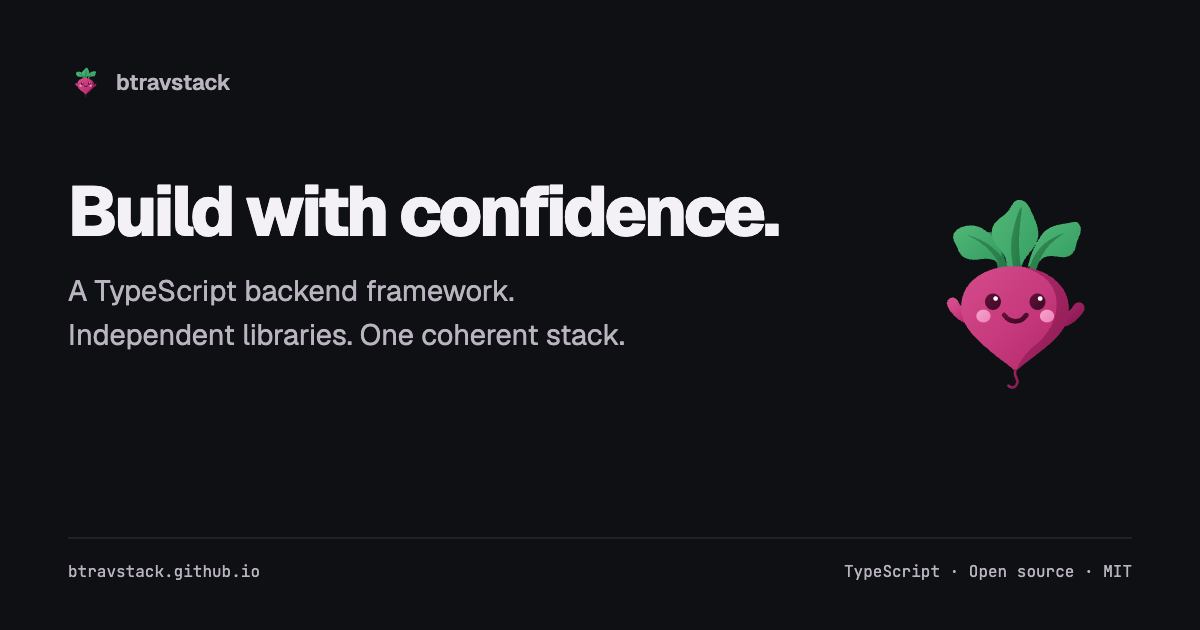
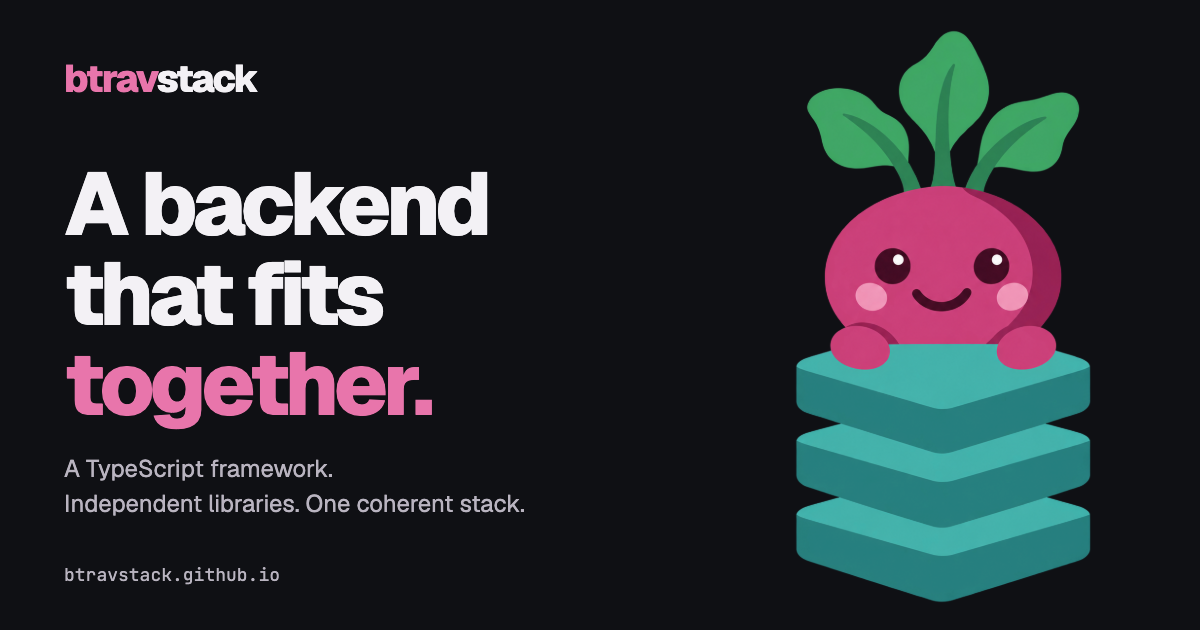
design: give the website social card a stronger brand composition

diff --git a/branding/social-card.html b/branding/social-card.html
@@ -5,6 +5,10 @@
 <title>btravstack brand card</title>
 <link rel="stylesheet" href="../packages/theme/src/fonts.css">
 <style>
+/* Hallmark · component: social card · theme: Beetroot Stack
+ * Static artwork; interactive states do not apply.
+ * Pre-emit critique: P5 H5 E4 S5 R5 V4
+ */
 :root { --paper:#0f1014; --ink:#f3f1f5; --muted:#b9b4c0; --rule:#323039; --accent:#e875ab; --display:'Geist',sans-serif; --mono:'JetBrains Mono',monospace; }
 * { box-sizing:border-box; }
 body { margin:0; width:1200px; height:630px; background:var(--paper); color:var(--ink); font-family:var(--display); }
@@ -15,7 +19,22 @@ h1 { max-width:820px; margin:74px 0 20px; font-size:70px; font-weight:800; lette
 p { max-width:690px; margin:0; font-size:29px; line-height:1.5; color:var(--muted); }
 .mark { position:absolute; width:230px; height:230px; right:68px; top:177px; }
 footer { position:absolute; bottom:48px; left:68px; right:68px; border-top:1px solid var(--rule); padding-top:22px; display:flex; justify-content:space-between; font:16px var(--mono); color:var(--muted); }
+.website-card { padding:54px 64px; overflow:hidden; }
+.website-wordmark { position:relative; z-index:1; font-size:38px; font-weight:800; letter-spacing:-1.8px; }
+.website-wordmark span { color:var(--accent); }
+.website-card h1 { position:relative; z-index:1; margin:56px 0 23px; max-width:700px; font-size:88px; line-height:1.02; letter-spacing:-4.4px; }
+.website-card h1 span { color:var(--accent); }
+.website-card p { position:relative; z-index:1; font-size:24px; line-height:1.45; }
+.website-mascot { position:absolute; width:610px; height:610px; top:10px; right:-48px; }
+.website-address { position:absolute; left:64px; bottom:44px; font:18px var(--mono); color:var(--muted); }
 </style>
+<template id="website-card">
+<div class="website-wordmark"><span>btrav</span>stack</div>
+<h1>A backend<br>that fits<br><span>together.</span></h1>
+<p>A TypeScript framework.<br>Independent libraries. One coherent stack.</p>
+<img class="website-mascot" src="../apps/website/public/logos/framework.png" alt="The smiling beetroot mascot sitting on three teal layers">
+<div class="website-address">btravstack.github.io</div>
+</template>
 <main>
 <div class="brand"><img src="../apps/website/public/logos/btravstack-dark.svg" alt="">btravstack</div>
 <h1></h1><p></p><img class="mark" alt="">
@@ -23,7 +42,6 @@ footer { position:absolute; bottom:48px; left:68px; right:68px; border-top:1px s
 </main>
 <script>
 const cards = {
-  btravstack: ['Build with confidence.', 'A TypeScript backend framework.<br>Independent libraries. One coherent stack.', 'btravstack.github.io'],
   framework: ['btravstack', 'Your application, composed.<br>Your process, taken care of.', 'btravstack.github.io/btravstack'],
   unthrown: ['unthrown', 'Errors you can handle.<br>Failures you can see in the type.', 'btravstack.github.io/unthrown'],
   entity: ['entity', 'Your domain, declared once.<br>Validated at the boundary.', 'btravstack.github.io/entity'],
@@ -33,11 +51,17 @@ const cards = {
   theme: ['btravstack theme', 'One visual language.<br>Every project, unmistakably related.', 'btravstack.github.io'],
 };
 const key = new URLSearchParams(location.search).get('project') || 'btravstack';
-const [name, description, url] = cards[key];
-document.querySelector('h1').textContent = name;
-document.querySelector('p').innerHTML = description;
-document.querySelector('.url').textContent = url;
-document.querySelector('.mark').src = `../apps/website/public/logos/${key}-dark.svg`;
-document.querySelector('.mark').alt = `${name} logo`;
+if (key === 'btravstack') {
+  const main = document.querySelector('main');
+  main.className = 'website-card';
+  main.replaceChildren(document.querySelector('#website-card').content.cloneNode(true));
+} else {
+  const [name, description, url] = cards[key];
+  document.querySelector('h1').textContent = name;
+  document.querySelector('p').innerHTML = description;
+  document.querySelector('.url').textContent = url;
+  document.querySelector('.mark').src = `../apps/website/public/logos/${key}-dark.svg`;
+  document.querySelector('.mark').alt = `${name} logo`;
+}
 </script>
 </html>

diff --git a/apps/website/.vitepress/config.ts b/apps/website/.vitepress/config.ts
@@ -47,7 +47,7 @@ export default defineConfig({
       "meta",
       {
         property: "og:image:alt",
-        content: "BtravStack — type-safe building blocks for the TypeScript backend",
+        content: "BtravStack — A backend that fits together. A smiling beetroot sits on three teal layers.",
       },
     ],
 
@@ -60,7 +60,7 @@ export default defineConfig({
       "meta",
       {
         name: "twitter:image:alt",
-        content: "BtravStack — type-safe building blocks for the TypeScript backend",
+        content: "BtravStack — A backend that fits together. A smiling beetroot sits on three teal layers.",
       },
     ],
 

diff --git a/README.md b/README.md
@@ -55,3 +55,7 @@ small sizes. The editable [social card](branding/social-card.html) accepts
 `temporal-contract`, `tools`, `theme`). Render at 1200 × 630 with device scale
 factor 1 after its fonts and images load. Exports live under
 `apps/website/public/og-*.png`; project repositories carry local copies.
+
+The default website card uses the approved framework PNG at a larger scale,
+with the homepage headline and shared wordmark. Keep that composition distinct
+from the individual project cards, and check it at thumbnail size when editing.
